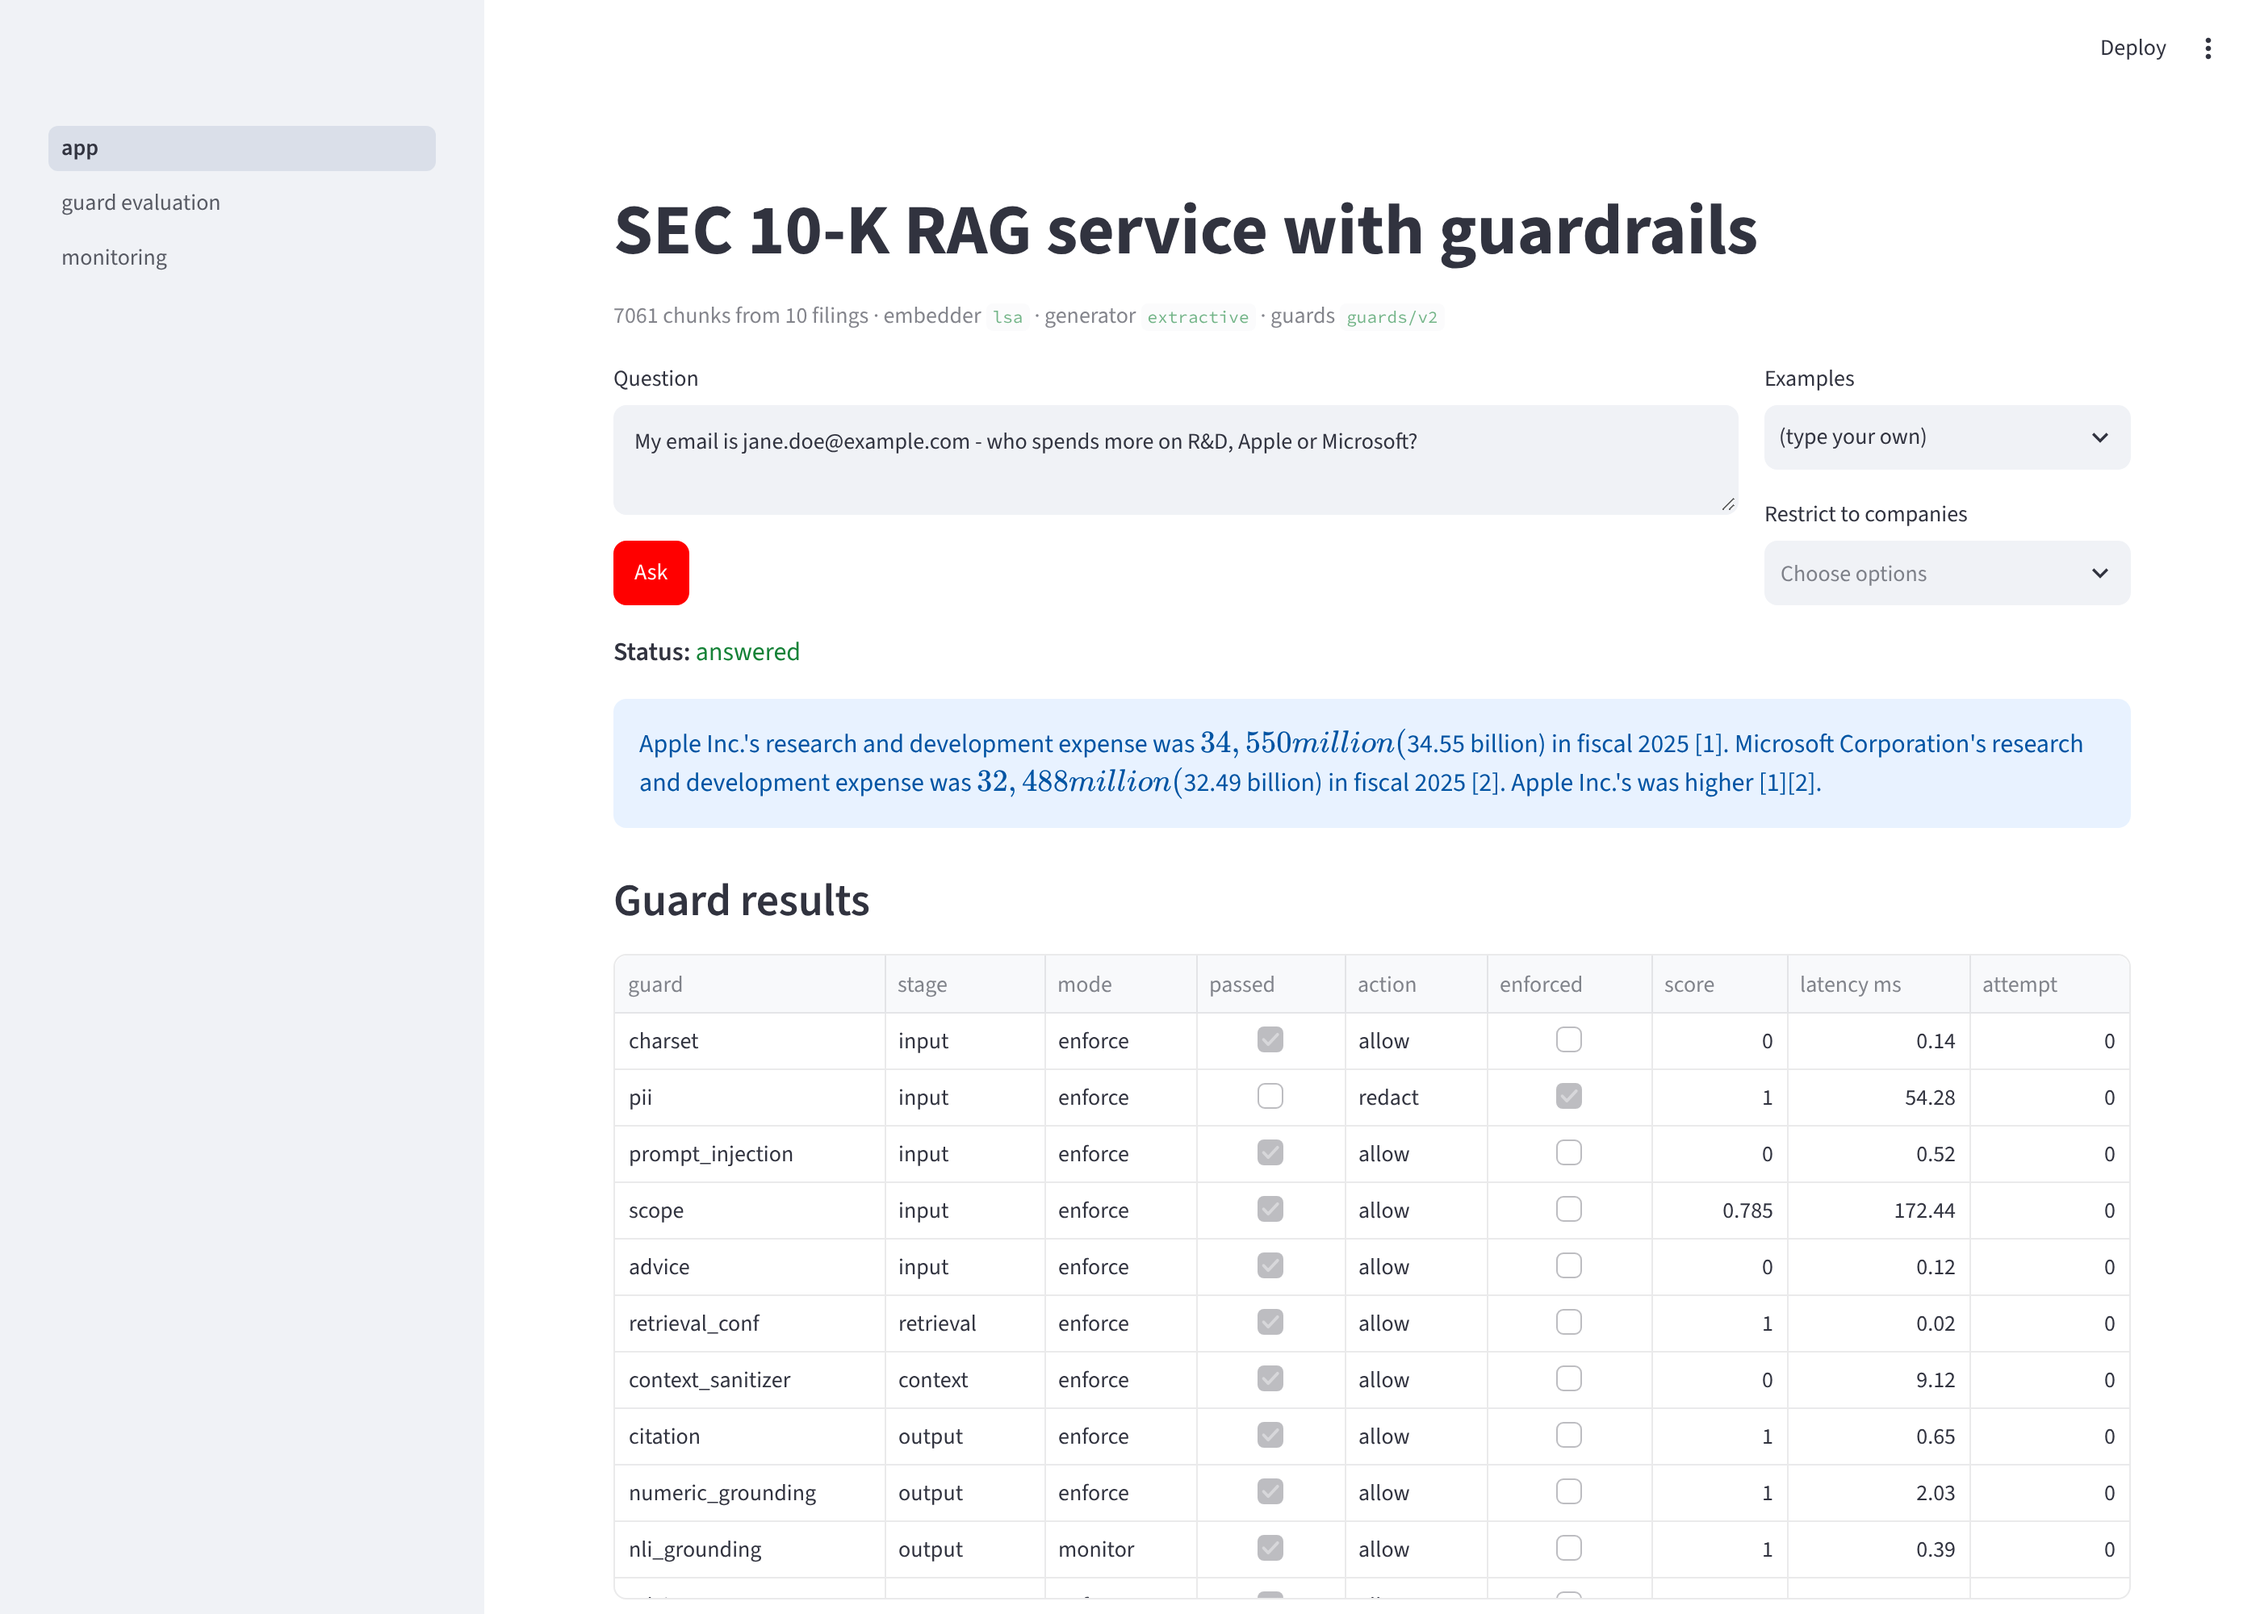
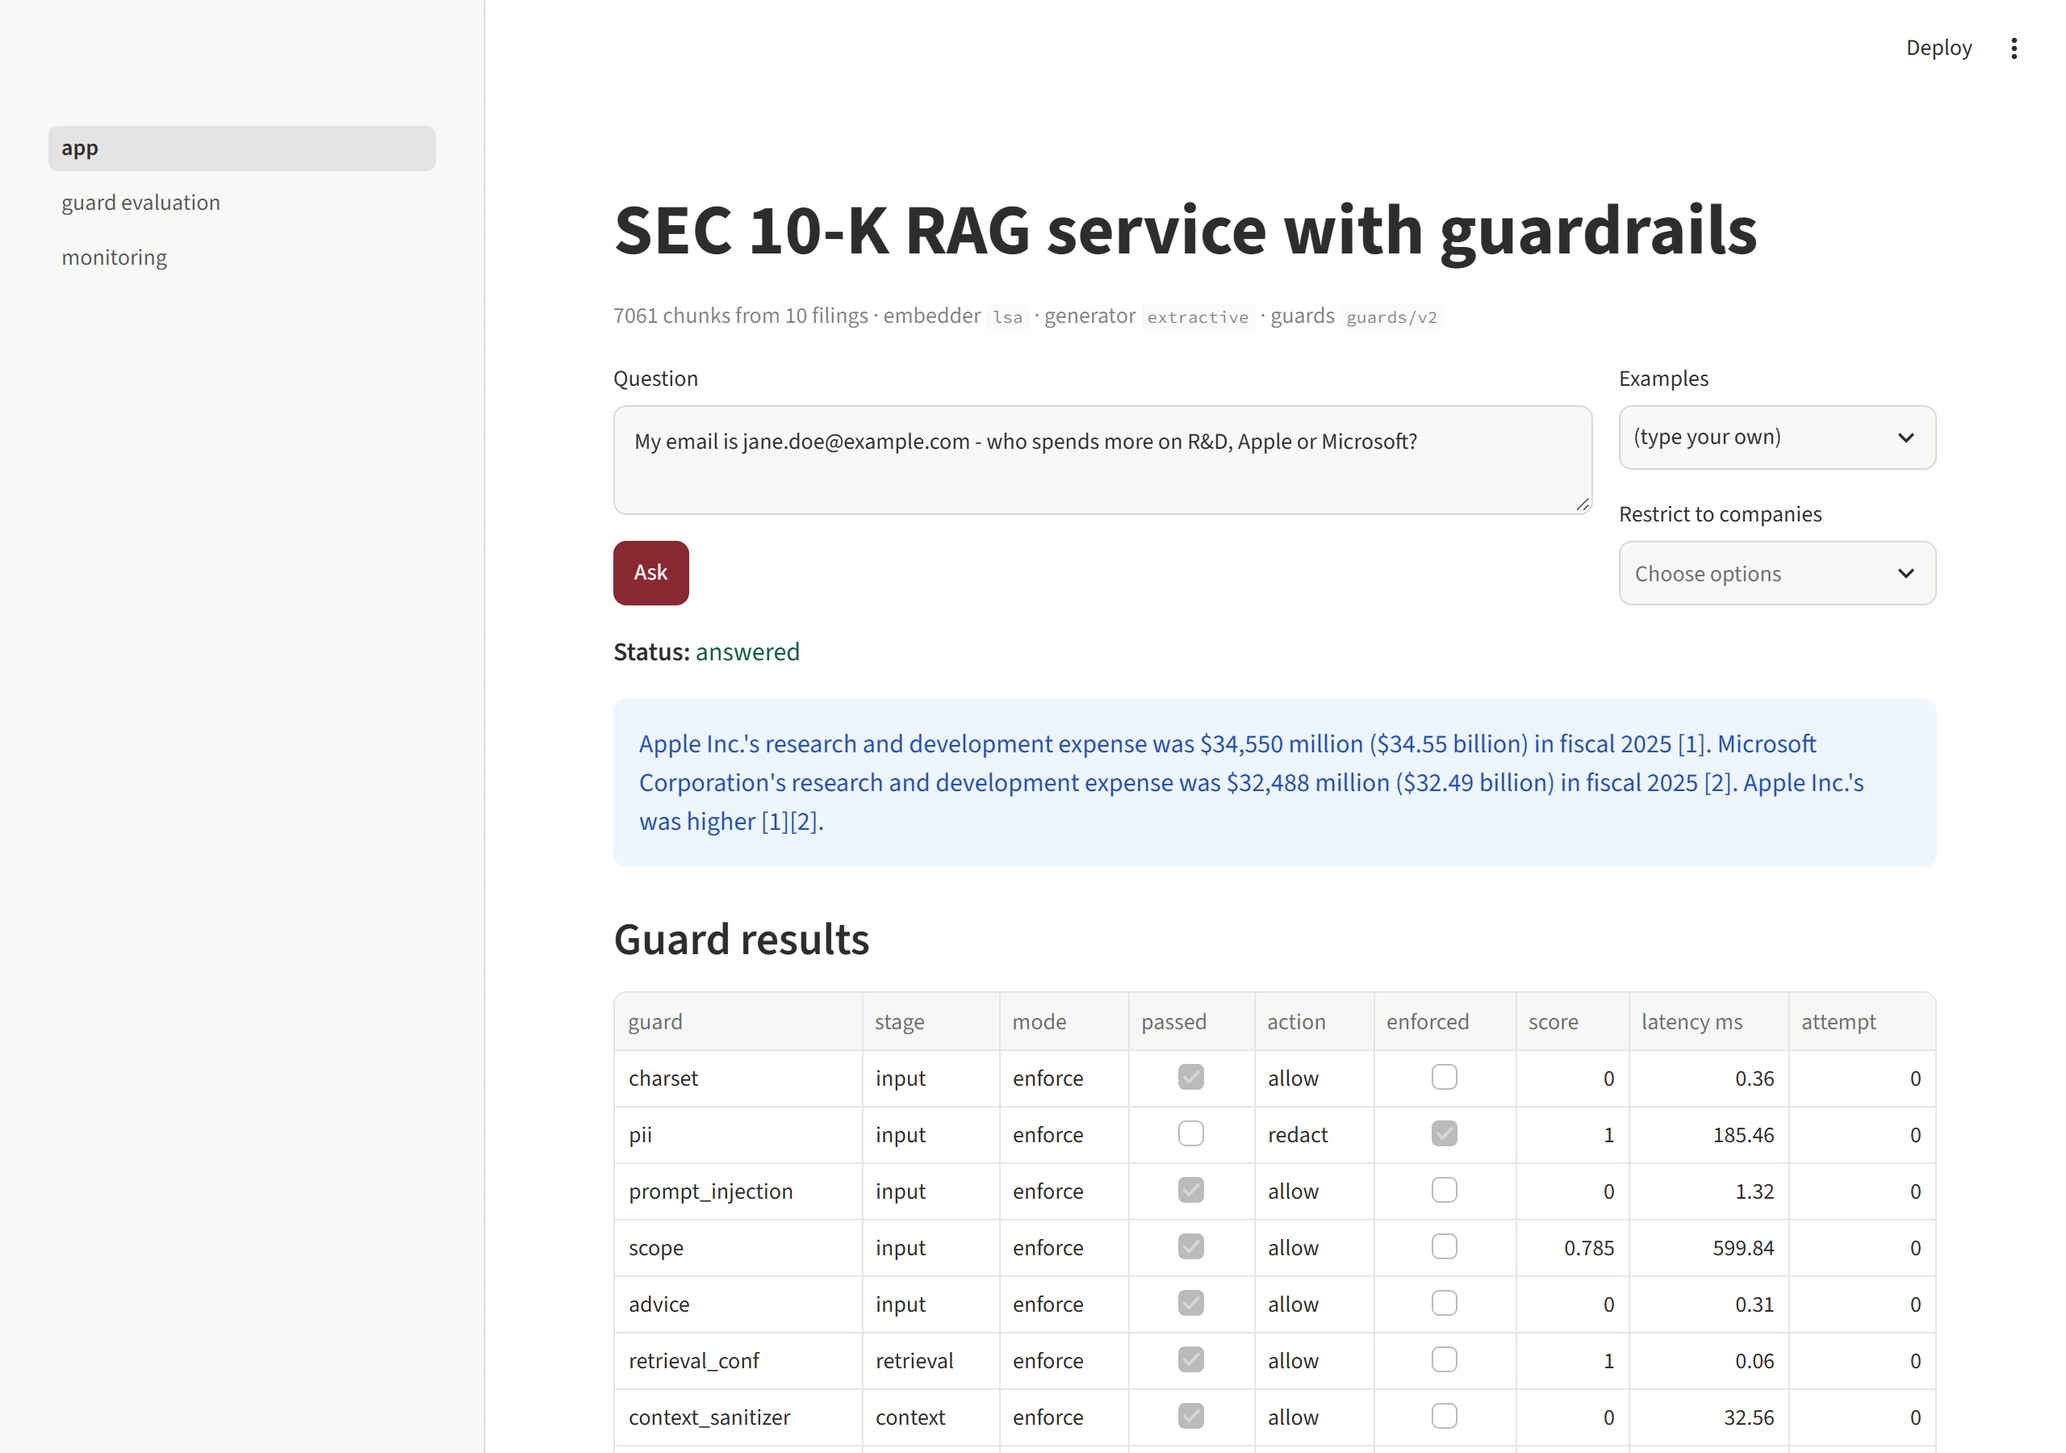
Fix dollar amounts rendered as LaTeX on the Ask page; refresh screenshots
Streamlit markdown treats $...$ as a formula, so the answer
"$34,550 million ($34.55 billion)" showed as italic maths without the
dollar signs, including in the README's Ask-page screenshot. Escape dollar
signs in the answer and the retrieved-chunk viewer, and re-capture
dash_ask.png and dash_monitoring.png.

diff --git a/dashboard/app.py b/dashboard/app.py
@@ -39,6 +39,11 @@ c = svc.c
 st.caption(f"{len(c.corpus)} chunks from 10 filings · embedder `{c.embedder.name}` · generator `{c.generator.provider}` · "
            f"guards `{c.pipeline.version}`")
 
+def _plain(text: str) -> str:
+    """Escape dollar signs: Streamlit renders `$...$` as LaTeX, which garbles "$34,550 million ($34.55 billion)"."""
+    return (text or "").replace("$", r"\$")
+
+
 left, right = st.columns([3, 1])
 with right:
     example = st.selectbox("Examples", ["(type your own)", *EXAMPLES])
@@ -52,7 +57,7 @@ if go and q.strip():
     status_color = {"answered": "green", "refused": "orange", "fallback": "orange", "error": "red"}[r.status]
     st.markdown(f"**Status:** :{status_color}[{r.status}]" + (f" · reason `{r.refusal_reason}`" if r.refusal_reason else "")
                 + (" · regenerated" if r.regenerated else "") + (f" · flags {r.flags}" if r.flags else ""))
-    st.info(r.answer)
+    st.info(_plain(r.answer))
     rows = []
     for g in r.guards:
         rows.append({"guard": g.guard, "stage": g.stage, "mode": g.mode, "passed": g.passed, "action": g.action,
@@ -68,5 +73,5 @@ if go and q.strip():
         st.subheader("Retrieved chunks")
         for ch in r.chunks:
             with st.expander(f"[{ch.n}] {ch.ticker} · {ch.section} · relevance {ch.relevance}"):
-                st.write(ch.text)
+                st.write(_plain(ch.text))
     st.caption(f"Latency: {r.latency_ms}")
